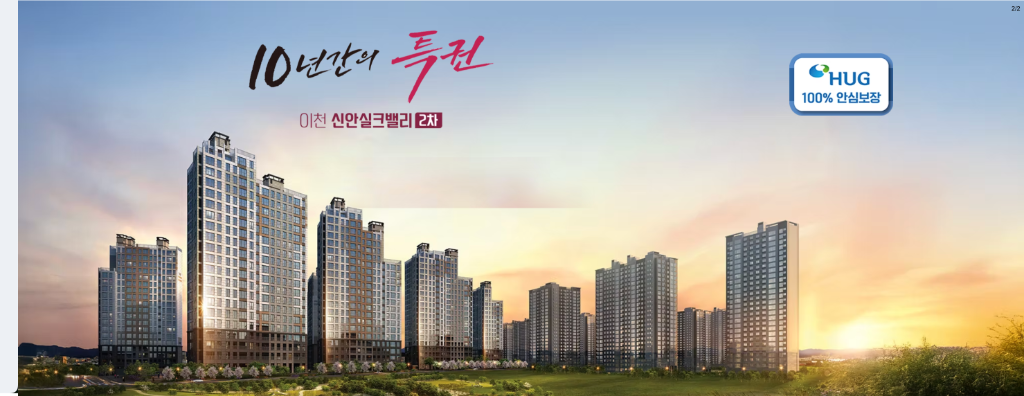
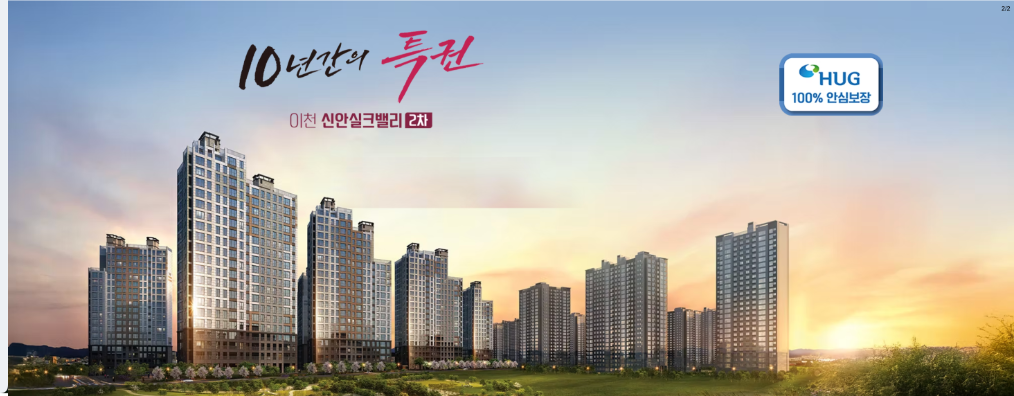
fix(ui): remove max-width restriction on main container and crop hero image padding

diff --git a/app/layout.tsx b/app/layout.tsx
@@ -40,7 +40,7 @@ export default function RootLayout({
       >
         <Header />
         <FloatingBanner />
-        <div className="w-full flex-grow flex flex-col items-center bg-white shadow-xl max-w-[768px]">
+        <div className="w-full flex-grow flex flex-col items-center bg-white shadow-xl">
           {children}
         </div>
         <Footer />

diff --git a/crop_image.py b/crop_image.py
@@ -1,0 +1,35 @@
+from PIL import Image
+import numpy as np
+
+def crop_white_borders(image_path, output_path):
+    img = Image.open(image_path).convert("RGBA")
+    data = np.array(img)
+    
+    # Check pixels on the left side. White is roughly [255, 255, 255] or close to it.
+    # We will find the first column where there's non-white/gray content.
+    # Let's crop the first ~80 pixels which seem to be the gray/white bar.
+    # To be safe, let's just crop 2% off the left if it's solid, or calculate bounding box.
+    
+    # Let's define "background" as the color of the very top-left pixel.
+    bg_color = data[0, 0, :3]
+    tolerance = 20
+    
+    # Calculate distance of all pixels from the bg_color
+    diff = np.sqrt(np.sum((data[:, :, :3] - bg_color) ** 2, axis=2))
+    
+    # Find columns that have any pixel significantly different from bg_color
+    mask = diff > tolerance
+    
+    # Find the first column (from left) that has content
+    valid_cols = np.where(mask.any(axis=0))[0]
+    
+    if len(valid_cols) > 0:
+        first_col = valid_cols[0]
+        # Crop the image from first_col to the end
+        cropped_data = data[:, first_col:, :]
+        Image.fromarray(cropped_data).save(output_path)
+        print(f"Cropped {first_col} pixels from the left.")
+    else:
+        print("No content found or crop failed.")
+
+crop_white_borders("public/1. home/hero_landscape.png", "public/1. home/hero_landscape.png")
